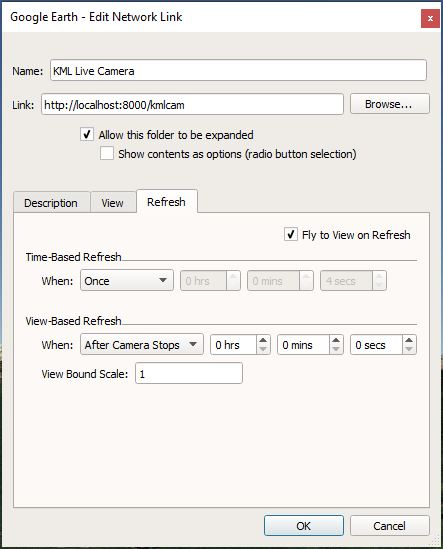
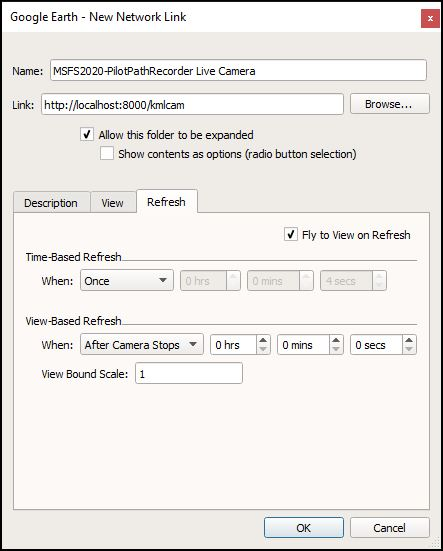
Added 'Link' button to install Network Link directly into Google Earth, and some tooltips

diff --git a/FS2020PlanePath/TextEditorForm.Designer.cs b/FS2020PlanePath/TextEditorForm.Designer.cs
@@ -29,6 +29,7 @@ namespace FS2020PlanePath
         /// </summary>
         private void InitializeComponent()
         {
+            this.components = new System.ComponentModel.Container();
             System.ComponentModel.ComponentResourceManager resources = new System.ComponentModel.ComponentResourceManager(typeof(TextEditorForm));
             this.editorTB = new System.Windows.Forms.TextBox();
             this.okBT = new System.Windows.Forms.Button();
@@ -38,6 +39,8 @@ namespace FS2020PlanePath
             this.openToolStripMenuItem = new System.Windows.Forms.ToolStripMenuItem();
             this.saveToolStripMenuItem = new System.Windows.Forms.ToolStripMenuItem();
             this.menuStripDividerLB = new System.Windows.Forms.Label();
+            this.toolTip1 = new System.Windows.Forms.ToolTip(this.components);
+            this.helpToolStripMenuItem = new System.Windows.Forms.ToolStripMenuItem();
             this.menuSP.SuspendLayout();
             this.SuspendLayout();
             // 
@@ -66,6 +69,7 @@ namespace FS2020PlanePath
             this.okBT.Size = new System.Drawing.Size(54, 30);
             this.okBT.TabIndex = 1;
             this.okBT.Text = "&OK";
+            this.toolTip1.SetToolTip(this.okBT, "Accept and immediately apply the updated KML template");
             this.okBT.UseVisualStyleBackColor = true;
             // 
             // cancelBT
@@ -77,15 +81,18 @@ namespace FS2020PlanePath
             this.cancelBT.Size = new System.Drawing.Size(54, 30);
             this.cancelBT.TabIndex = 0;
             this.cancelBT.Text = "&Cancel";
+            this.toolTip1.SetToolTip(this.cancelBT, "Discard any change(s) made to the KML template");
             this.cancelBT.UseVisualStyleBackColor = true;
             // 
             // menuSP
             // 
             this.menuSP.BackColor = System.Drawing.SystemColors.Control;
             this.menuSP.Items.AddRange(new System.Windows.Forms.ToolStripItem[] {
-            this.fileToolStripMenuItem});
+            this.fileToolStripMenuItem,
+            this.helpToolStripMenuItem});
             this.menuSP.Location = new System.Drawing.Point(0, 0);
             this.menuSP.Name = "menuSP";
+            this.menuSP.ShowItemToolTips = true;
             this.menuSP.Size = new System.Drawing.Size(520, 24);
             this.menuSP.TabIndex = 4;
             // 
@@ -97,18 +104,19 @@ namespace FS2020PlanePath
             this.fileToolStripMenuItem.Name = "fileToolStripMenuItem";
             this.fileToolStripMenuItem.Size = new System.Drawing.Size(37, 20);
             this.fileToolStripMenuItem.Text = "&File";
+            this.fileToolStripMenuItem.ToolTipText = "Allows Loading or Saving of KML Template";
             // 
             // openToolStripMenuItem
             // 
             this.openToolStripMenuItem.Name = "openToolStripMenuItem";
-            this.openToolStripMenuItem.Size = new System.Drawing.Size(123, 22);
+            this.openToolStripMenuItem.Size = new System.Drawing.Size(180, 22);
             this.openToolStripMenuItem.Text = "&Load...";
             this.openToolStripMenuItem.Click += new System.EventHandler(this.openToolStripMenuItem_Click);
             // 
             // saveToolStripMenuItem
             // 
             this.saveToolStripMenuItem.Name = "saveToolStripMenuItem";
-            this.saveToolStripMenuItem.Size = new System.Drawing.Size(123, 22);
+            this.saveToolStripMenuItem.Size = new System.Drawing.Size(180, 22);
             this.saveToolStripMenuItem.Text = "Save &As...";
             this.saveToolStripMenuItem.Click += new System.EventHandler(this.saveToolStripMenuItem_Click);
             // 
@@ -122,6 +130,15 @@ namespace FS2020PlanePath
             this.menuStripDividerLB.Name = "menuStripDividerLB";
             this.menuStripDividerLB.Size = new System.Drawing.Size(520, 2);
             this.menuStripDividerLB.TabIndex = 5;
+            // 
+            // helpToolStripMenuItem
+            // 
+            this.helpToolStripMenuItem.Alignment = System.Windows.Forms.ToolStripItemAlignment.Right;
+            this.helpToolStripMenuItem.Name = "helpToolStripMenuItem";
+            this.helpToolStripMenuItem.Size = new System.Drawing.Size(44, 20);
+            this.helpToolStripMenuItem.Text = "&Help";
+            this.helpToolStripMenuItem.ToolTipText = "Invokes \'Pop Up\' Help Panel";
+            this.helpToolStripMenuItem.Click += new System.EventHandler(this.helpToolStripMenuItem_Click);
             // 
             // TextEditorForm
             // 
@@ -140,6 +157,8 @@ namespace FS2020PlanePath
             this.MainMenuStrip = this.menuSP;
             this.Name = "TextEditorForm";
             this.Text = "Text Editor";
+            this.toolTip1.SetToolTip(this, "Allows customization of the \'Live Camera\' KML Template");
+            this.HelpRequested += new System.Windows.Forms.HelpEventHandler(this.TextEditorForm_HelpRequested);
             this.menuSP.ResumeLayout(false);
             this.menuSP.PerformLayout();
             this.ResumeLayout(false);
@@ -157,5 +176,7 @@ namespace FS2020PlanePath
         private System.Windows.Forms.ToolStripMenuItem openToolStripMenuItem;
         private System.Windows.Forms.ToolStripMenuItem saveToolStripMenuItem;
         private System.Windows.Forms.Label menuStripDividerLB;
+        private System.Windows.Forms.ToolTip toolTip1;
+        private System.Windows.Forms.ToolStripMenuItem helpToolStripMenuItem;
     }
 }

diff --git a/FS2020PlanePath/MainPage.Designer.cs b/FS2020PlanePath/MainPage.Designer.cs
@@ -28,6 +28,7 @@
         /// </summary>
         private void InitializeComponent()
         {
+            this.components = new System.ComponentModel.Container();
             System.ComponentModel.ComponentResourceManager resources = new System.ComponentModel.ComponentResourceManager(typeof(MainPage));
             this.label2 = new System.Windows.Forms.Label();
             this.ThresholdLogWriteFreqTB = new System.Windows.Forms.TextBox();
@@ -60,6 +61,8 @@
             this.LiveCameraCB = new System.Windows.Forms.CheckBox();
             this.LiveCameraHostPortTB = new System.Windows.Forms.TextBox();
             this.LiveCameraKmlBT = new System.Windows.Forms.Button();
+            this.toolTip1 = new System.Windows.Forms.ToolTip(this.components);
+            this.geLinkBT = new System.Windows.Forms.Button();
             this.SuspendLayout();
             // 
             // label2
@@ -345,6 +348,7 @@
             this.LiveCameraCB.Size = new System.Drawing.Size(85, 17);
             this.LiveCameraCB.TabIndex = 15;
             this.LiveCameraCB.Text = "Live Camera";
+            this.toolTip1.SetToolTip(this.LiveCameraCB, "Check to enable \'Live Camera\' listener (see documentation)");
             this.LiveCameraCB.UseVisualStyleBackColor = true;
             this.LiveCameraCB.CheckedChanged += new System.EventHandler(this.LiveCameraCB_CheckedChanged);
             // 
@@ -352,25 +356,39 @@
             // 
             this.LiveCameraHostPortTB.Location = new System.Drawing.Point(125, 213);
             this.LiveCameraHostPortTB.Name = "LiveCameraHostPortTB";
-            this.LiveCameraHostPortTB.Size = new System.Drawing.Size(370, 20);
+            this.LiveCameraHostPortTB.Size = new System.Drawing.Size(283, 20);
             this.LiveCameraHostPortTB.TabIndex = 16;
             this.LiveCameraHostPortTB.Text = "http://localhost:8000/kmlcam";
+            this.toolTip1.SetToolTip(this.LiveCameraHostPortTB, "Set \'Live Camera\' listener address");
             // 
             // LiveCameraKmlBT
             // 
-            this.LiveCameraKmlBT.Location = new System.Drawing.Point(502, 211);
+            this.LiveCameraKmlBT.Location = new System.Drawing.Point(415, 213);
             this.LiveCameraKmlBT.Name = "LiveCameraKmlBT";
-            this.LiveCameraKmlBT.Size = new System.Drawing.Size(38, 23);
+            this.LiveCameraKmlBT.Size = new System.Drawing.Size(38, 20);
             this.LiveCameraKmlBT.TabIndex = 29;
-            this.LiveCameraKmlBT.Text = "KML";
+            this.LiveCameraKmlBT.Text = "Edit";
+            this.toolTip1.SetToolTip(this.LiveCameraKmlBT, "Edit Selected  \'Live Camera\' Definition");
             this.LiveCameraKmlBT.UseVisualStyleBackColor = true;
             this.LiveCameraKmlBT.Click += new System.EventHandler(this.LiveCameraKml_Click);
+            // 
+            // geLinkBT
+            // 
+            this.geLinkBT.Location = new System.Drawing.Point(458, 213);
+            this.geLinkBT.Name = "geLinkBT";
+            this.geLinkBT.Size = new System.Drawing.Size(38, 20);
+            this.geLinkBT.TabIndex = 30;
+            this.geLinkBT.Text = "Link";
+            this.toolTip1.SetToolTip(this.geLinkBT, "Install Selected Network Link in Google Earth");
+            this.geLinkBT.UseVisualStyleBackColor = true;
+            this.geLinkBT.Click += new System.EventHandler(this.geLinkBT_Click);
             // 
             // MainPage
             // 
             this.AutoScaleDimensions = new System.Drawing.SizeF(6F, 13F);
             this.AutoScaleMode = System.Windows.Forms.AutoScaleMode.Font;
             this.ClientSize = new System.Drawing.Size(557, 518);
+            this.Controls.Add(this.geLinkBT);
             this.Controls.Add(this.LiveCameraKmlBT);
             this.Controls.Add(this.LiveCameraHostPortTB);
             this.Controls.Add(this.LiveCameraCB);
@@ -444,6 +462,8 @@
         private System.Windows.Forms.CheckBox LiveCameraCB;
         private System.Windows.Forms.TextBox LiveCameraHostPortTB;
         private System.Windows.Forms.Button LiveCameraKmlBT;
+        private System.Windows.Forms.ToolTip toolTip1;
+        private System.Windows.Forms.Button geLinkBT;
     }
 }
 

diff --git a/FS2020PlanePath/TextEditorForm.cs b/FS2020PlanePath/TextEditorForm.cs
@@ -16,9 +16,10 @@ namespace FS2020PlanePath
             Func<string, string> validator
         ) {
             InitializeComponent();
+
             this.Text = title;
-            editorTB.Text = text;
             this.validator = validator;
+            editorTB.Text = text;
         }
 
         public string EditorText
@@ -36,12 +37,7 @@ namespace FS2020PlanePath
                 string failureMessage = validator.Invoke(EditorText);
                 if (failureMessage != null)
                 {
-                    MessageBox.Show(
-                        $"Details:{failureMessage}",
-                        "Validation Failure",
-                        MessageBoxButtons.OK,
-                        MessageBoxIcon.Error
-                    );
+                    displayError("Validation Failure", failureMessage);
                     e.Cancel = true;
                 }
             }
@@ -66,7 +62,7 @@ namespace FS2020PlanePath
                 }
                 catch (Exception ex)
                 {
-                    reflectException(ex);
+                    displayError("Exception Encountered", ex.Message);
                 }
             }
 
@@ -90,16 +86,43 @@ namespace FS2020PlanePath
                     File.WriteAllText(saveFileDialog.FileName, editorTB.Text);
                 } catch(Exception ex)
                 {
-                    reflectException(ex);
+                    displayError("Exception Encountered", ex.Message);
                 }
             }
 
         }
 
-        private void reflectException(Exception e)
+        private void displayError(string caption, string details)
         {
-            MessageBox.Show($"Details:\n{e.Message}", "Exception Encountered", MessageBoxButtons.OK, MessageBoxIcon.Error);
+            MessageBox.Show($"Details:\n{details}", caption, MessageBoxButtons.OK, MessageBoxIcon.Error);
         }
+
+        private void TextEditorForm_HelpRequested(object sender, HelpEventArgs hlpevent)
+        {
+            showHelp();
+        }
+
+        private void helpToolStripMenuItem_Click(object sender, EventArgs e)
+        {
+            showHelp();
+        }
+
+        private void showHelp() { 
+            Help.ShowPopup(this,
+                @"Permitted substitution values:
+
+    {longitude}
+    {latitude}
+    {altitude}
+    {heading}
+    {tilt}
+    {roll}
+
+See: https://developers.google.com/kml/documentation/kmlreference",
+                this.Location
+            );
+        }
+
     }
 
 }

diff --git a/FS2020PlanePath/MainPage.cs b/FS2020PlanePath/MainPage.cs
@@ -15,6 +15,7 @@ using Microsoft.FlightSimulator.SimConnect;
 using SharpKml.Base;
 using SharpKml.Dom;
 using SharpKml.Engine;
+using System.Diagnostics;
 
 namespace FS2020PlanePath
 {
@@ -886,6 +887,61 @@ namespace FS2020PlanePath
                     }
                 }
             }
+        }
+
+        private void geLinkBT_Click(object sender, EventArgs e)
+        {
+
+            string linkFileContents = $@"<?xml version='1.0' encoding='UTF-8'?>
+<kml xmlns='http://www.opengis.net/kml/2.2' xmlns:gx='http://www.google.com/kml/ext/2.2' xmlns:kml='http://www.opengis.net/kml/2.2' xmlns:atom='http://www.w3.org/2005/Atom'>
+<NetworkLink>
+	<name>MSFS2020-PilotPathRecorder Live Camera</name>
+	<flyToView>1</flyToView>
+	<Link>
+		<href>{LiveCameraHostPortTB.Text}</href>
+		<viewRefreshMode>onStop</viewRefreshMode>
+		<viewRefreshTime>0</viewRefreshTime>
+	</Link>
+</NetworkLink>
+</kml>
+";
+            string linkFileName = Path.GetTempPath() + "FS2020PlanePath-kmlcam.kml";
+            try
+            {
+                File.WriteAllText(linkFileName, linkFileContents);
+            }
+            catch (Exception ex)
+            {
+                displayError("Could not save Network Link file", ex.Message);
+                return;
+            }
+            Console.WriteLine($"Installing Google Earth Link via({linkFileName})");
+            try
+            {
+                using (Process installLinkProcess = Process.Start(linkFileName))
+                {
+                    if (!installLinkProcess.WaitForExit(5000))
+                    {
+                        displayError("Timeout Waiting for Link Installation", "Is Google Earth Installed?");
+                    } else
+                    {
+                        int exitCode = installLinkProcess.ExitCode;
+                        if (exitCode != 0)
+                        {
+                            Console.WriteLine($"exitCode({exitCode})");
+                            displayError("Unexpected Result while Installing Network Link", $"Exit Code {exitCode}");
+                        }
+                    }
+                }
+            } catch(Exception ilpe)
+            {
+                displayError("Error Installing Network Link", ilpe.Message);
+            }
+        }
+
+        private void displayError(string caption, string details)
+        {
+            MessageBox.Show($"Details:\n{details}", caption, MessageBoxButtons.OK, MessageBoxIcon.Error);
         }
 
     }

diff --git a/README-kmlcam.md b/README-kmlcam.md
@@ -63,7 +63,12 @@ it from within Google Earth to restore synchronization once the link becomes rea
 
 ## Extras
 
-You can use the `KML` button to the right of the "Live Camera Network Link" to modify or 
+- A `Link` button to the right of the "Live Camera Network Link" can be used to install the
+Network Link directly into Google Earth (presuming it's installed and is the handler for `.kml`
+files).  As of this writing, only the default configuration illustrated above (i.e., refresh the
+view immediately "after camera stops", with "Fly to View" selected) is supported.
+
+- You can use the `Edit` button to the right of the "Live Camera Network Link" to modify or 
 replace the "KML" document that is returned to Google Earth each time it queries for the
 updated position.  
 

diff --git a/README.md b/README.md
@@ -90,3 +90,12 @@ Click on First Person View to review your flight from the first person perspecti
 3. Unzip contents of Pilot Path Recorder to a directory
 
 4. Launch FS2020PlanePath.exe to start Pilot Path Recorder
+
+## See Also
+
+Other related projects of interest (without endorsement) include:
+
+- [FSBingMapsConnect](https://github.com/baumhoto/FSBingMapsConnect#fsbingmapsconnect)
+- [Plugin - VFRmap](https://www.msfsaddons.org/freeware/plugin-vfrmap)
+- [FlightControlReplay](https://flightcontrolreplay.wordpress.com/)
+- [MyFsGoogleEarth 1.0](https://flyawaysimulation.com/downloads/files/1272/myfsgoogleearth-10-link-google-earth-with-flight/)
